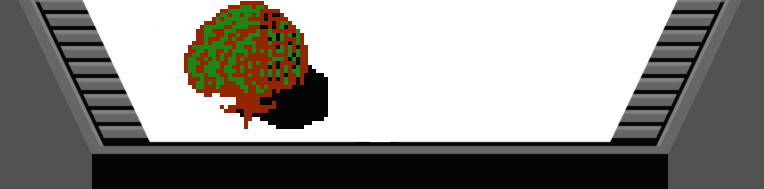
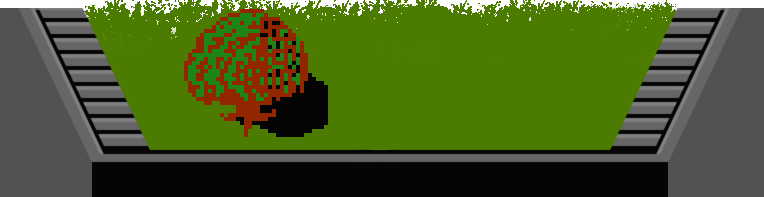
Better sky

diff --git a/frontend/js/states/moodfield.js b/frontend/js/states/moodfield.js
@@ -49,6 +49,9 @@ MoodfieldState.prototype.create = function(game) {
 MoodfieldState.prototype.update = function() {
     var state = this;
 
+    // state.game.time.events.repeat(Phaser.Timer.SECOND * 0.5, function() { state.clouds.tilePosition.x += 10; });
+    state.clouds.tilePosition.x += 1
+
     if (state.gameOver) {
         return;
     }
@@ -69,7 +72,8 @@ MoodfieldState.prototype.update = function() {
 
 MoodfieldState.prototype.createBackground = function() {
     var state = this;
-    state.game.stage.backgroundColor = "#4B7B00";
+    state.game.stage.backgroundColor = "#f7d78a";
+    state.clouds = this.add.tileSprite(0, 0, state.game.width, 400, 'clouds');
     state.roadTop = state.game.add.tileSprite(0, state.game.height - 391,
                                               state.game.width, 191,
                                               'roadTop');

diff --git a/frontend/js/assets.js b/frontend/js/assets.js
@@ -17,6 +17,7 @@ var assets = {
     // images are standard image files.
     // Format is [key, path]
     images: [
+        ['clouds', 'images/clouds.png'],
         ['roadTop', 'images/road_top.png'],
         ['roadMiddle', 'images/road_middle.png'],
         ['roadBottom', 'images/road_bottom.png'],
